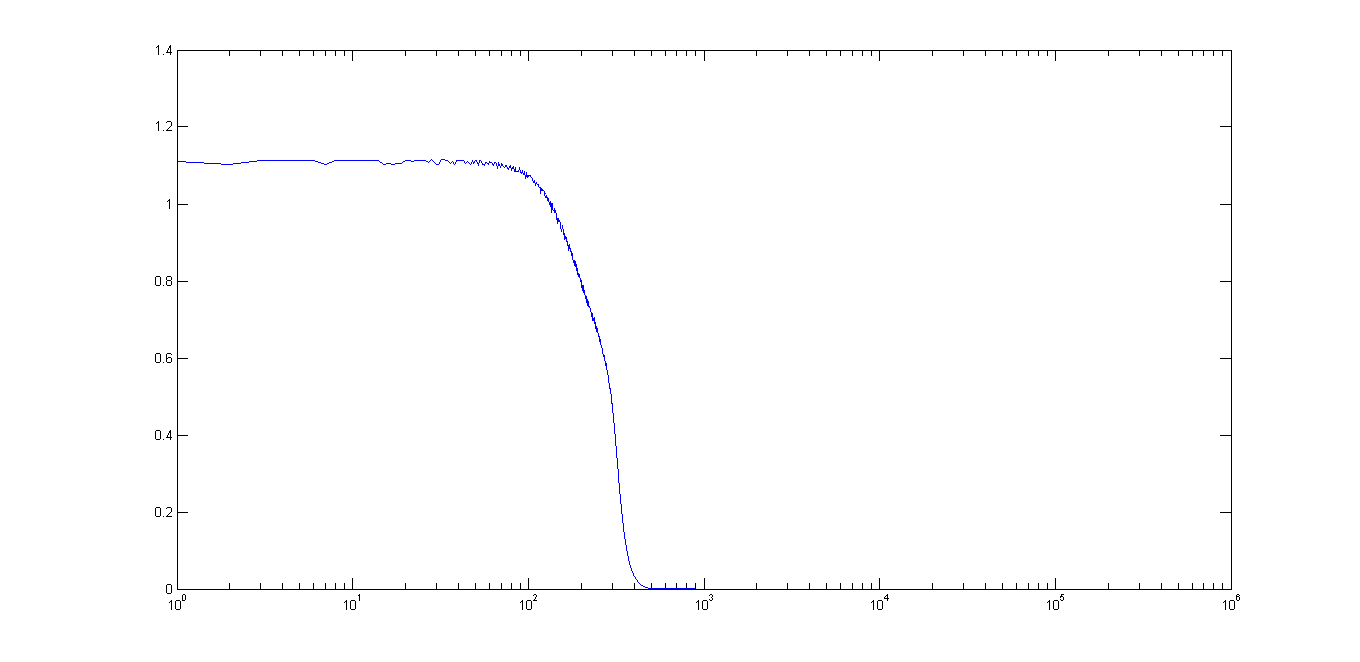
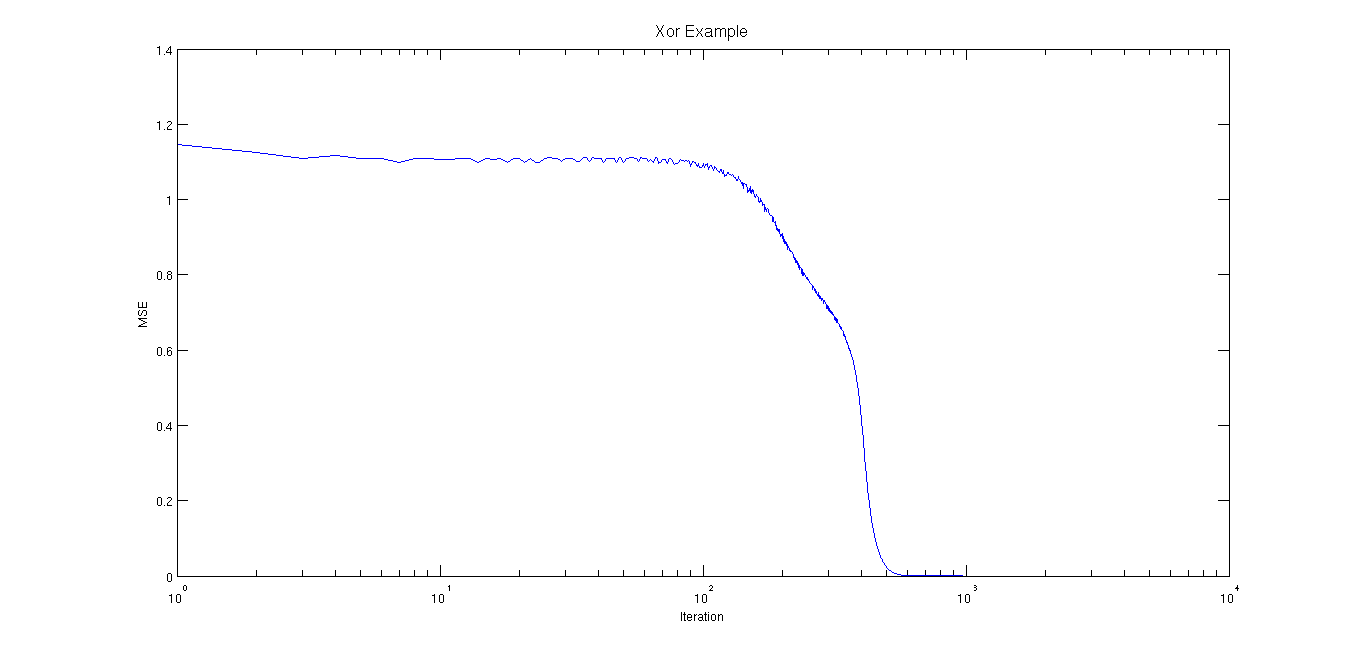
update examples

diff --git a/examples/xor_and_example.m b/examples/xor_and_example.m
@@ -1,14 +1,14 @@
-%% Learning XOR logical operation
+%% Learning XOR and AND logical operations
 
 % Configuration
-neurons = [4 1];
-a = 0.001;
+neurons = [5 2];
+a = 1e-3;
 bias = [-1 -1];
 x = [0 0;0 1;1 0; 1 1];
-yref = [0 ;1 ;1 ;0];
+yref = [0 0;1 0;1 0;0 1];
 lr = 0.7;
-error = 10^-20;
-maxIt = 1e6;
+error = 1e-20;
+maxIt = 1e4;
 
 % Processing
 [W1,W2,E] = trainingMLP2(neurons,a,bias,x,yref,lr,error,maxIt);
@@ -16,7 +16,7 @@ maxIt = 1e6;
 % Display Infos
 disp('Error');
 disp(E);
-disp('XOR')
+disp('XOR AND')
 disp('Input [0 0]');
 outMLP2(bias,[0 0],W1,W2)
 disp('Input [0 1]');
@@ -28,3 +28,6 @@ outMLP2(bias,[1 1],W1,W2)
 
 % Plot MSE
 semilogx(mse_hist)
+ylabel('MSE');
+xlabel('Iteration');
+title('Xor and And Example','FontSize',14);

diff --git a/examples/xor_example.m b/examples/xor_example.m
@@ -1,14 +1,14 @@
-%% Learning XOR and AND logical operations
+%% Learning XOR logical operation
 
 % Configuration
-neurons = [5 2];
-a = 0.001;
+neurons = [4 1];
+a = 1e-3;
 bias = [-1 -1];
 x = [0 0;0 1;1 0; 1 1];
-yref = [0 0;1 0;1 0;0 1];
+yref = [0 ;1 ;1 ;0];
 lr = 0.7;
-error = 10^-20;
-maxIt = 100000;
+error = 1e-20;
+maxIt = 1e4;
 
 % Processing
 [W1,W2,E] = trainingMLP2(neurons,a,bias,x,yref,lr,error,maxIt);
@@ -16,7 +16,7 @@ maxIt = 100000;
 % Display Infos
 disp('Error');
 disp(E);
-disp('XOR AND')
+disp('XOR')
 disp('Input [0 0]');
 outMLP2(bias,[0 0],W1,W2)
 disp('Input [0 1]');
@@ -28,3 +28,6 @@ outMLP2(bias,[1 1],W1,W2)
 
 % Plot MSE
 semilogx(mse_hist)
+ylabel('MSE');
+xlabel('Iteration');
+title('Xor Example','FontSize',14);
